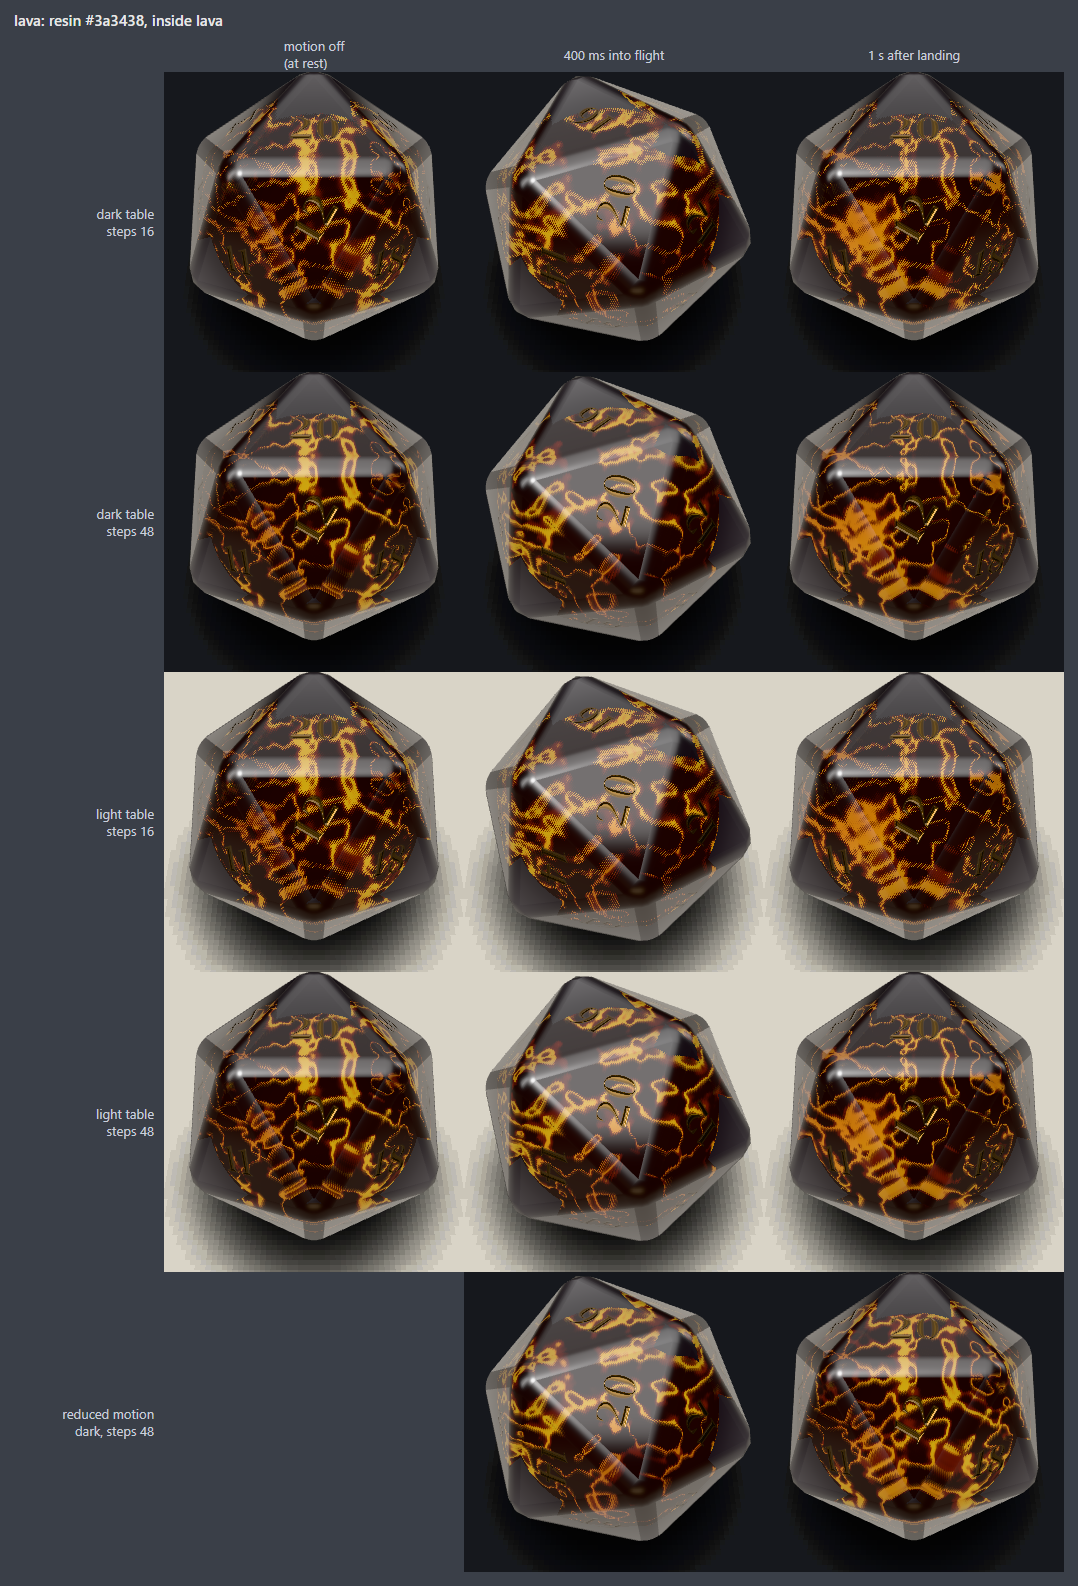
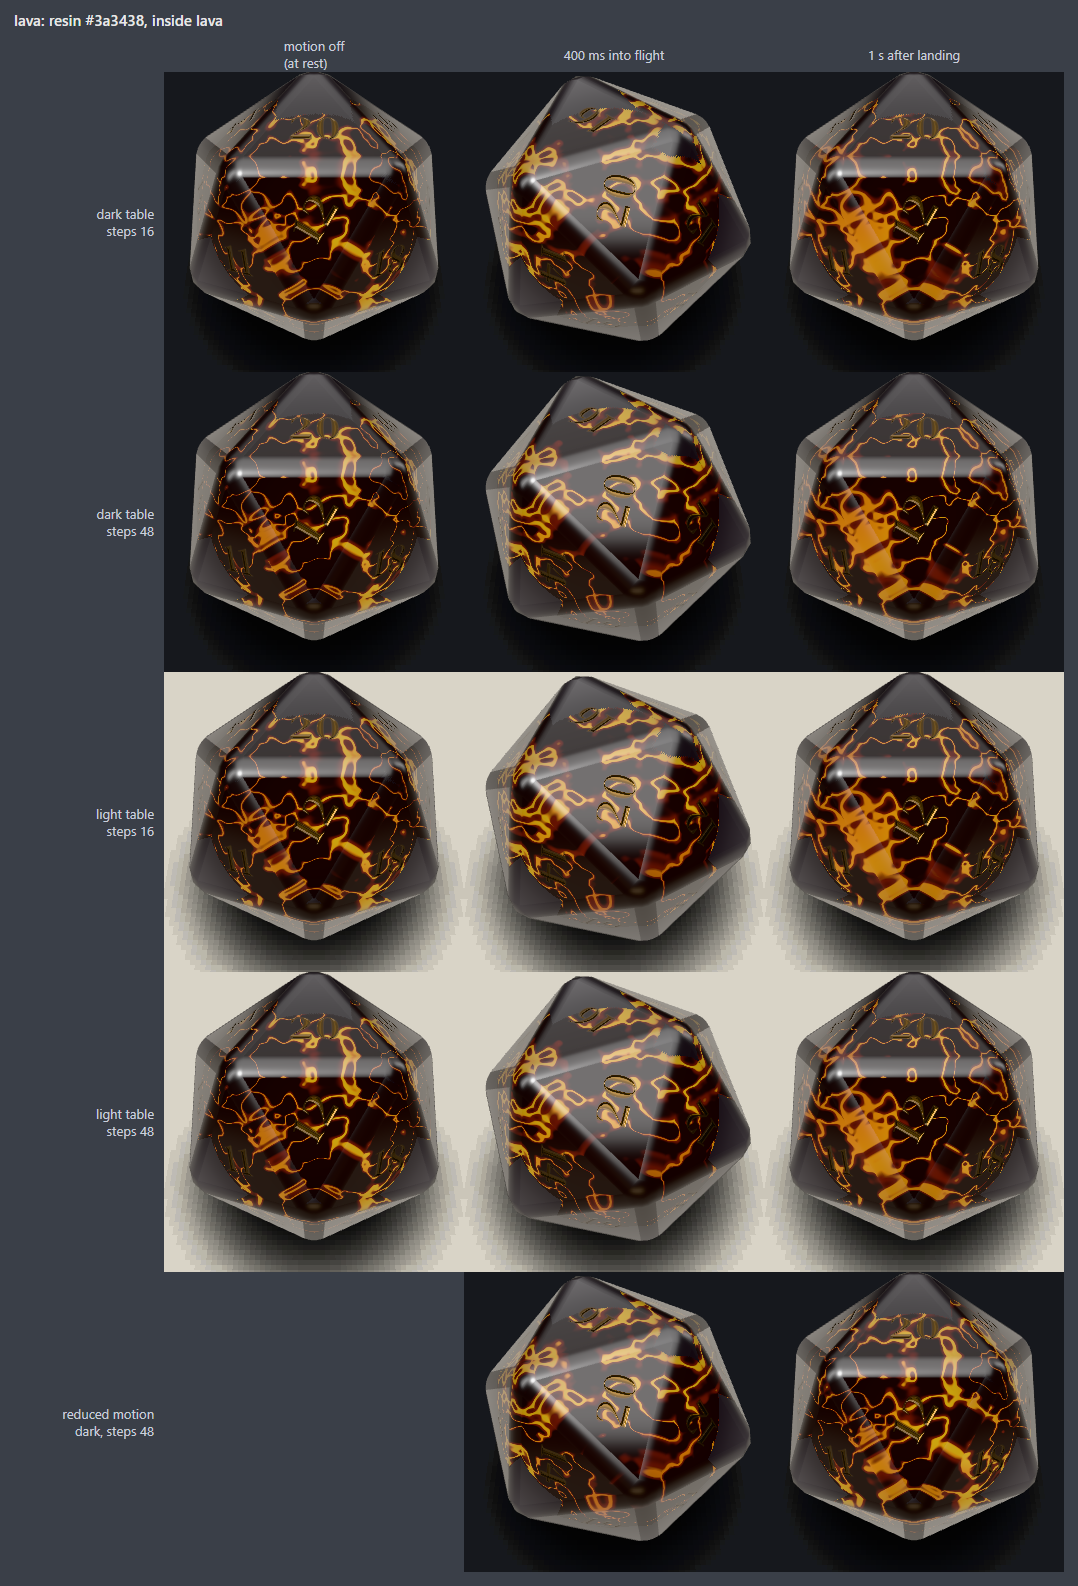
fix(insides): lava cracks read at the ray's pool entry
The crack noise and phase were read at points that moved with the march
jitter (the churn at p, the boundary point projected along up, the
heave switching the projection), so crack edges hatched. Every crack
value is now read where the ray entered the pool's bounding volume,
geometric rejects run before any noise, and the crust is darker.

diff --git a/src/render/extras/insides/lava.js b/src/render/extras/insides/lava.js
@@ -39,21 +39,29 @@ const BODY = /* glsl */ `
 #define DC_LA_W ${f((2 * Math.PI) / LAVA.period)}
 vec4 dcInterior( vec3 p, vec3 rd, float dt ) {
 	float y = dot( p, dcIUp );
-	// the churn: large slow blobs rising through the body (also the surface's heave)
-	float n1 = dcNoise3( p * 2.6 - dcIUp * ( DC_LA_T * 0.05 ) + 4.3 );
-	float surf = mix( ${f(LAVA.fill[0])}, ${f(LAVA.fill[1])}, uInteriorDensity ) + 0.08 * ( n1 - 0.5 );
-	// depth into the lava: under the surface and inside the flanks
 	float r = length( p );
-	float top = surf - y;
+	// geometric reject before any noise: above the highest heave or outside the flanks
+	float surf0 = mix( ${f(LAVA.fill[0])}, ${f(LAVA.fill[1])}, uInteriorDensity );
 	float side = DC_LA_WALL - r;
-	float depth = min( top, side );
+	if ( min( surf0 + 0.04 - y, side ) <= 0.0 ) return vec4( 0.0 );
+	// where this ray entered the pool's bounding volume: back along rd to the plane of the highest
+	// heave or the flank sphere, whichever is nearer. Every sample of a ray gets the same point, and
+	// every crack and phase value is read there, so the march jitter does not move them (no hatching)
+	float top0 = surf0 - y;
+	float ru = dot( rd, dcIUp );
+	float sTop = ru < - 0.05 ? ( top0 + 0.04 ) / - ru : 1e3;
+	float b = dot( p, rd );
+	float sSide = b + sqrt( max( b * b - r * r + DC_LA_WALL * DC_LA_WALL, 0.0 ) );
+	vec3 ps = p - rd * min( sTop, sSide );
+	// the churn: large slow blobs (the surface's heave, the crack phase, the body's heat)
+	float n1 = dcNoise3( ps * 2.6 - dcIUp * ( DC_LA_T * 0.05 ) + 4.3 );
+	// depth into the lava: under the heaving surface and inside the flanks
+	float depth = min( top0 + 0.08 * ( n1 - 0.5 ), side );
 	if ( depth <= 0.0 ) return vec4( 0.0 );
 	// the crust shell: at least one sample deep at 16 steps
 	float th = max( 0.06, dt * 1.5 );
 	float shell = 1.0 - smoothstep( th, 1.6 * th, depth );
-	// cracks: ridged noise lines, each opening and resealing over the cycle, out of phase; read on
-	// the nearest boundary point, so the jittered sample depth does not hatch them
-	vec3 ps = top < side ? p + dcIUp * top : p * ( DC_LA_WALL / max( r, 1e-4 ) );
+	// cracks: ridged noise lines, each opening and resealing over the cycle, out of phase
 	float n2 = dcNoise3( ps * 7.0 + 1.9 );
 	float n3 = dcNoise3( ps * 15.0 - 5.2 );
 	float ridge = 1.0 - abs( 2.0 * mix( n2, n3, 0.3 ) - 1.0 );
@@ -67,7 +75,7 @@ vec4 dcInterior( vec3 p, vec3 rd, float dt ) {
 	// the crust: the lava's colour darkened, lit a little by the key, warm at the crack lips
 	float lip = smoothstep( 1.0 - 3.0 * wid, 1.0 - wid, ridge );
 	float lit = 0.3 + 0.7 * max( dot( dcIUp, dcIKey ), 0.0 );
-	vec3 rock = uInteriorColors[ 1 ] * ( 0.035 * ( dcILight * lit + 0.25 ) + 0.4 * lip * lip );
+	vec3 rock = uInteriorColors[ 1 ] * ( 0.025 *( dcILight * lit + 0.25 ) + 0.4 * lip * lip );
 	vec3 col = mix( molten, rock, crust );
 	float a = dcIAlpha( 70.0, dt );
 	return vec4( min( col, vec3( 1.0 ) ) * a, a );
